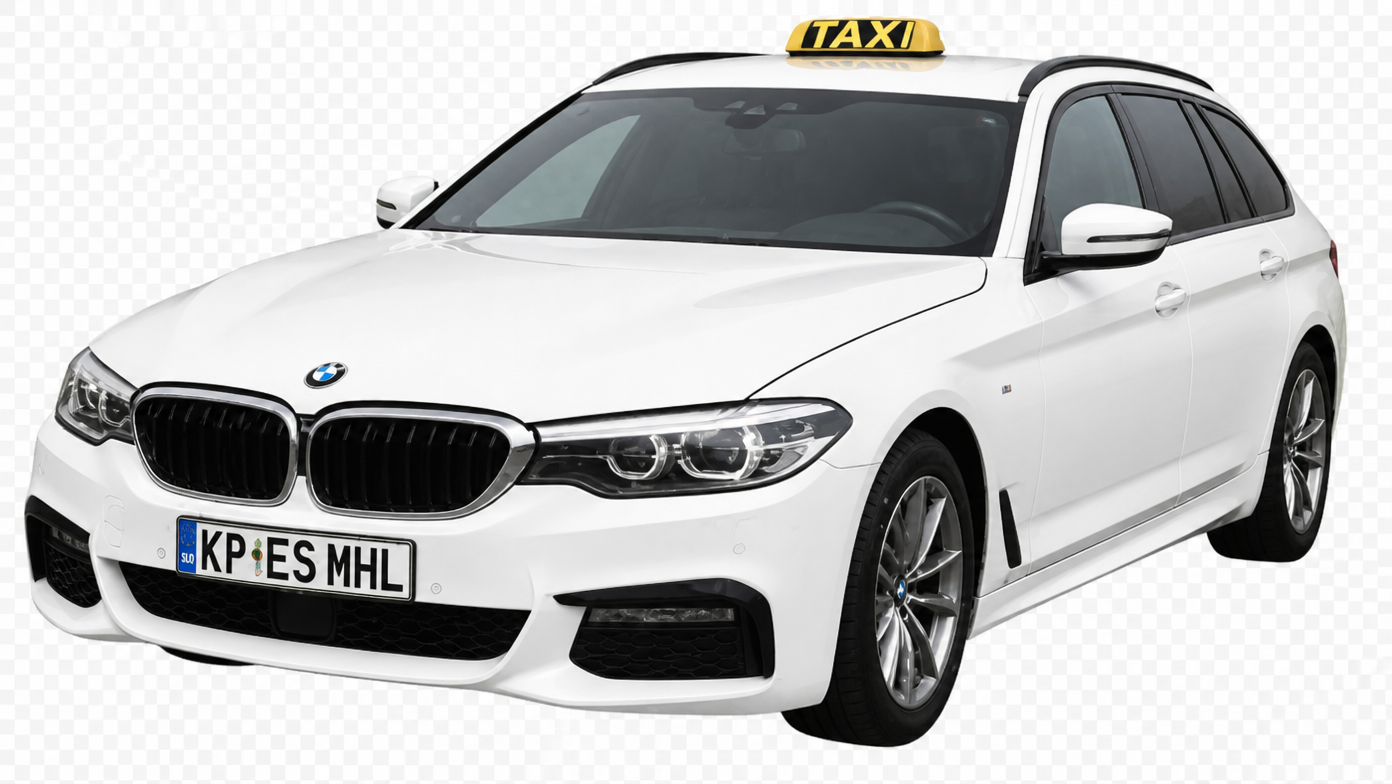
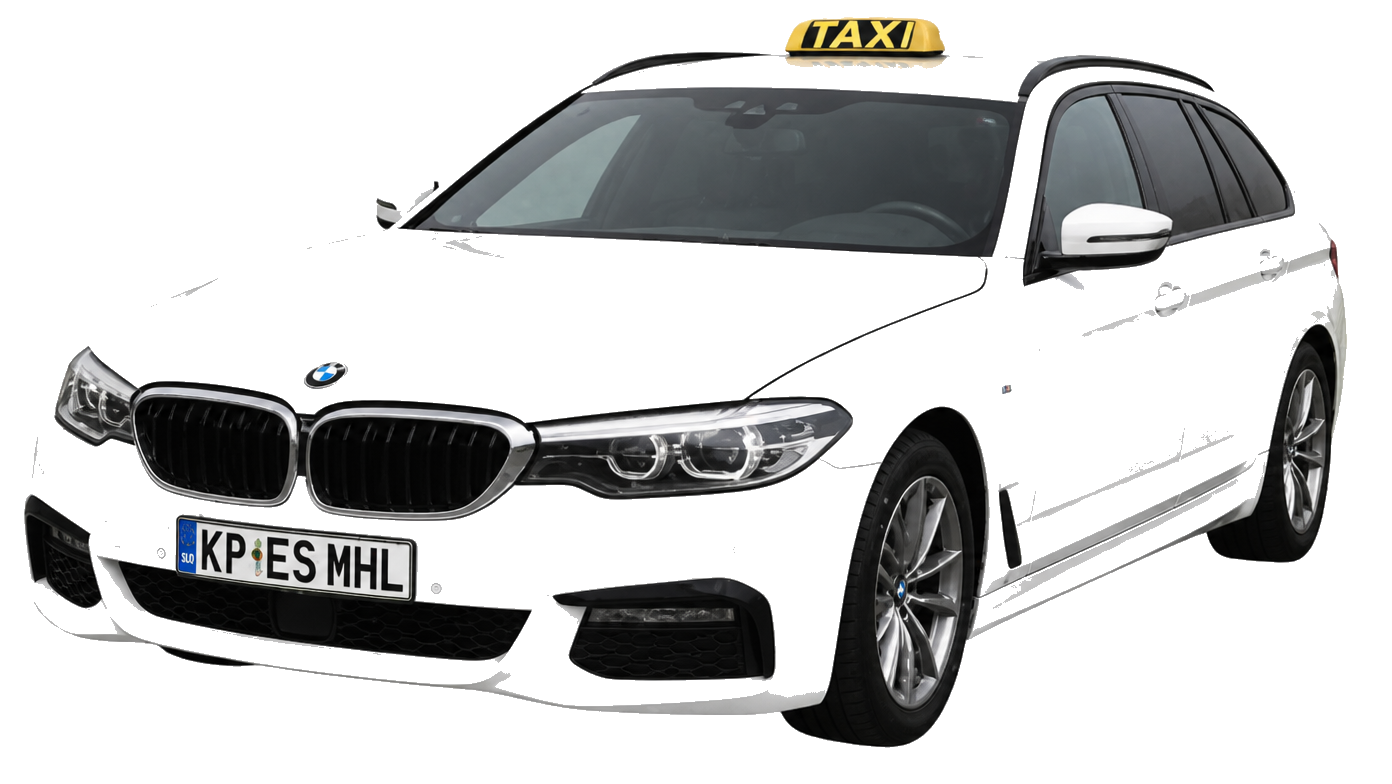
first commit

diff --git a/style.css b/style.css
@@ -31,6 +31,44 @@ body {
 	margin: 25px auto 0;
 }
 
+.services {
+	margin-top: 32px;
+	font-family: Arial, Helvetica, sans-serif;
+	font-weight: 900;
+	font-style: italic;
+	text-align: center;
+	text-transform: uppercase;
+}
+
+.services__title {
+	margin: 0;
+	color: #f0bd41;
+	font-size: clamp(36px, 10vw, 64px);
+	letter-spacing: 0.06em;
+}
+
+.services__item {
+	margin: 18px 0 0;
+	color: #fff;
+	font-size: clamp(20px, 5.5vw, 30px);
+	letter-spacing: 0.04em;
+}
+
+.services__item--highlight {
+	display: inline-block;
+	padding: 0.12em 0.45em;
+	background: #f0bd41;
+	color: #000;
+	transform: skewX(-14deg);
+}
+
+.car-image {
+	display: block;
+	width: min(80%, 420px);
+	height: auto;
+	margin: 52px auto 0;
+}
+
 .call-button {
 	--button-size: clamp(56px, 14vw, 68px);
 	position: absolute;
@@ -42,11 +80,11 @@ body {
 	width: var(--button-size);
 	height: var(--button-size);
 	padding: 0;
-	border: 1px solid #ffeb3b;
+	border: 1px solid #f0bd41;
 	border-radius: 50%;
 	background: #000;
-	box-shadow: 0 0 8px rgba(255, 235, 59, 0.85);
-	color: #ffeb3b;
+	box-shadow: 0 0 8px rgba(240, 189, 65, 0.85);
+	color: #f0bd41;
 	cursor: pointer;
 	text-decoration: none;
 	-webkit-tap-highlight-color: transparent;
@@ -54,19 +92,27 @@ body {
 }
 
 .call-button:focus-visible {
-	outline: 2px solid #ffeb3b;
+	outline: 2px solid #f0bd41;
 	outline-offset: 4px;
 }
 
 .call-button__icon {
 	width: clamp(22px, 6vw, 27px);
 	height: clamp(22px, 6vw, 27px);
-	color: #ffeb3b;
+	color: #f0bd41;
 }
 
 @media screen and (min-width: 576px) {
 	:root {
 		--page-gutter: 20px;
+	}
+
+	#screen > img {
+		width: 25%;
+	}
+
+	.call-button {
+		display: none;
 	}
 }
 

diff --git a/index.html b/index.html
@@ -9,6 +9,13 @@
 <body>
 	<main id="screen">
 		<img src="images/edologo.png" alt="EDO logo">
+		<section class="services">
+			<h1 class="services__title">Storitve</h1>
+			<h2 class="services__item services__item--highlight">Turistične ekskurzije</h2>
+			<p class="services__item">Mednarodni transport</p>
+			<p class="services__item">Letališki transferji</p>
+		</section>
+		<img class="car-image" src="images/edocartransparent.png" alt="Vozilo EDO TAXY">
 		<a class="call-button" href="tel:+38631450902" aria-label="Pokliči +386 31 450 902">
 			<svg class="call-button__icon" viewBox="0 0 24 24" fill="none" stroke="currentColor" stroke-width="2" stroke-linecap="round" stroke-linejoin="round" aria-hidden="true">
 				<path d="M22 16.92v3a2 2 0 0 1-2.18 2 19.79 19.79 0 0 1-8.63-3.07 19.5 19.5 0 0 1-6-6A19.79 19.79 0 0 1 2.12 4.18 2 2 0 0 1 4.11 2h3a2 2 0 0 1 2 1.72c.12.96.36 1.9.7 2.8a2 2 0 0 1-.45 2.11L8.09 9.91a16 16 0 0 0 6 6l1.27-1.27a2 2 0 0 1 2.11-.45c.9.34 1.84.58 2.8.7A2 2 0 0 1 22 16.92z" />
